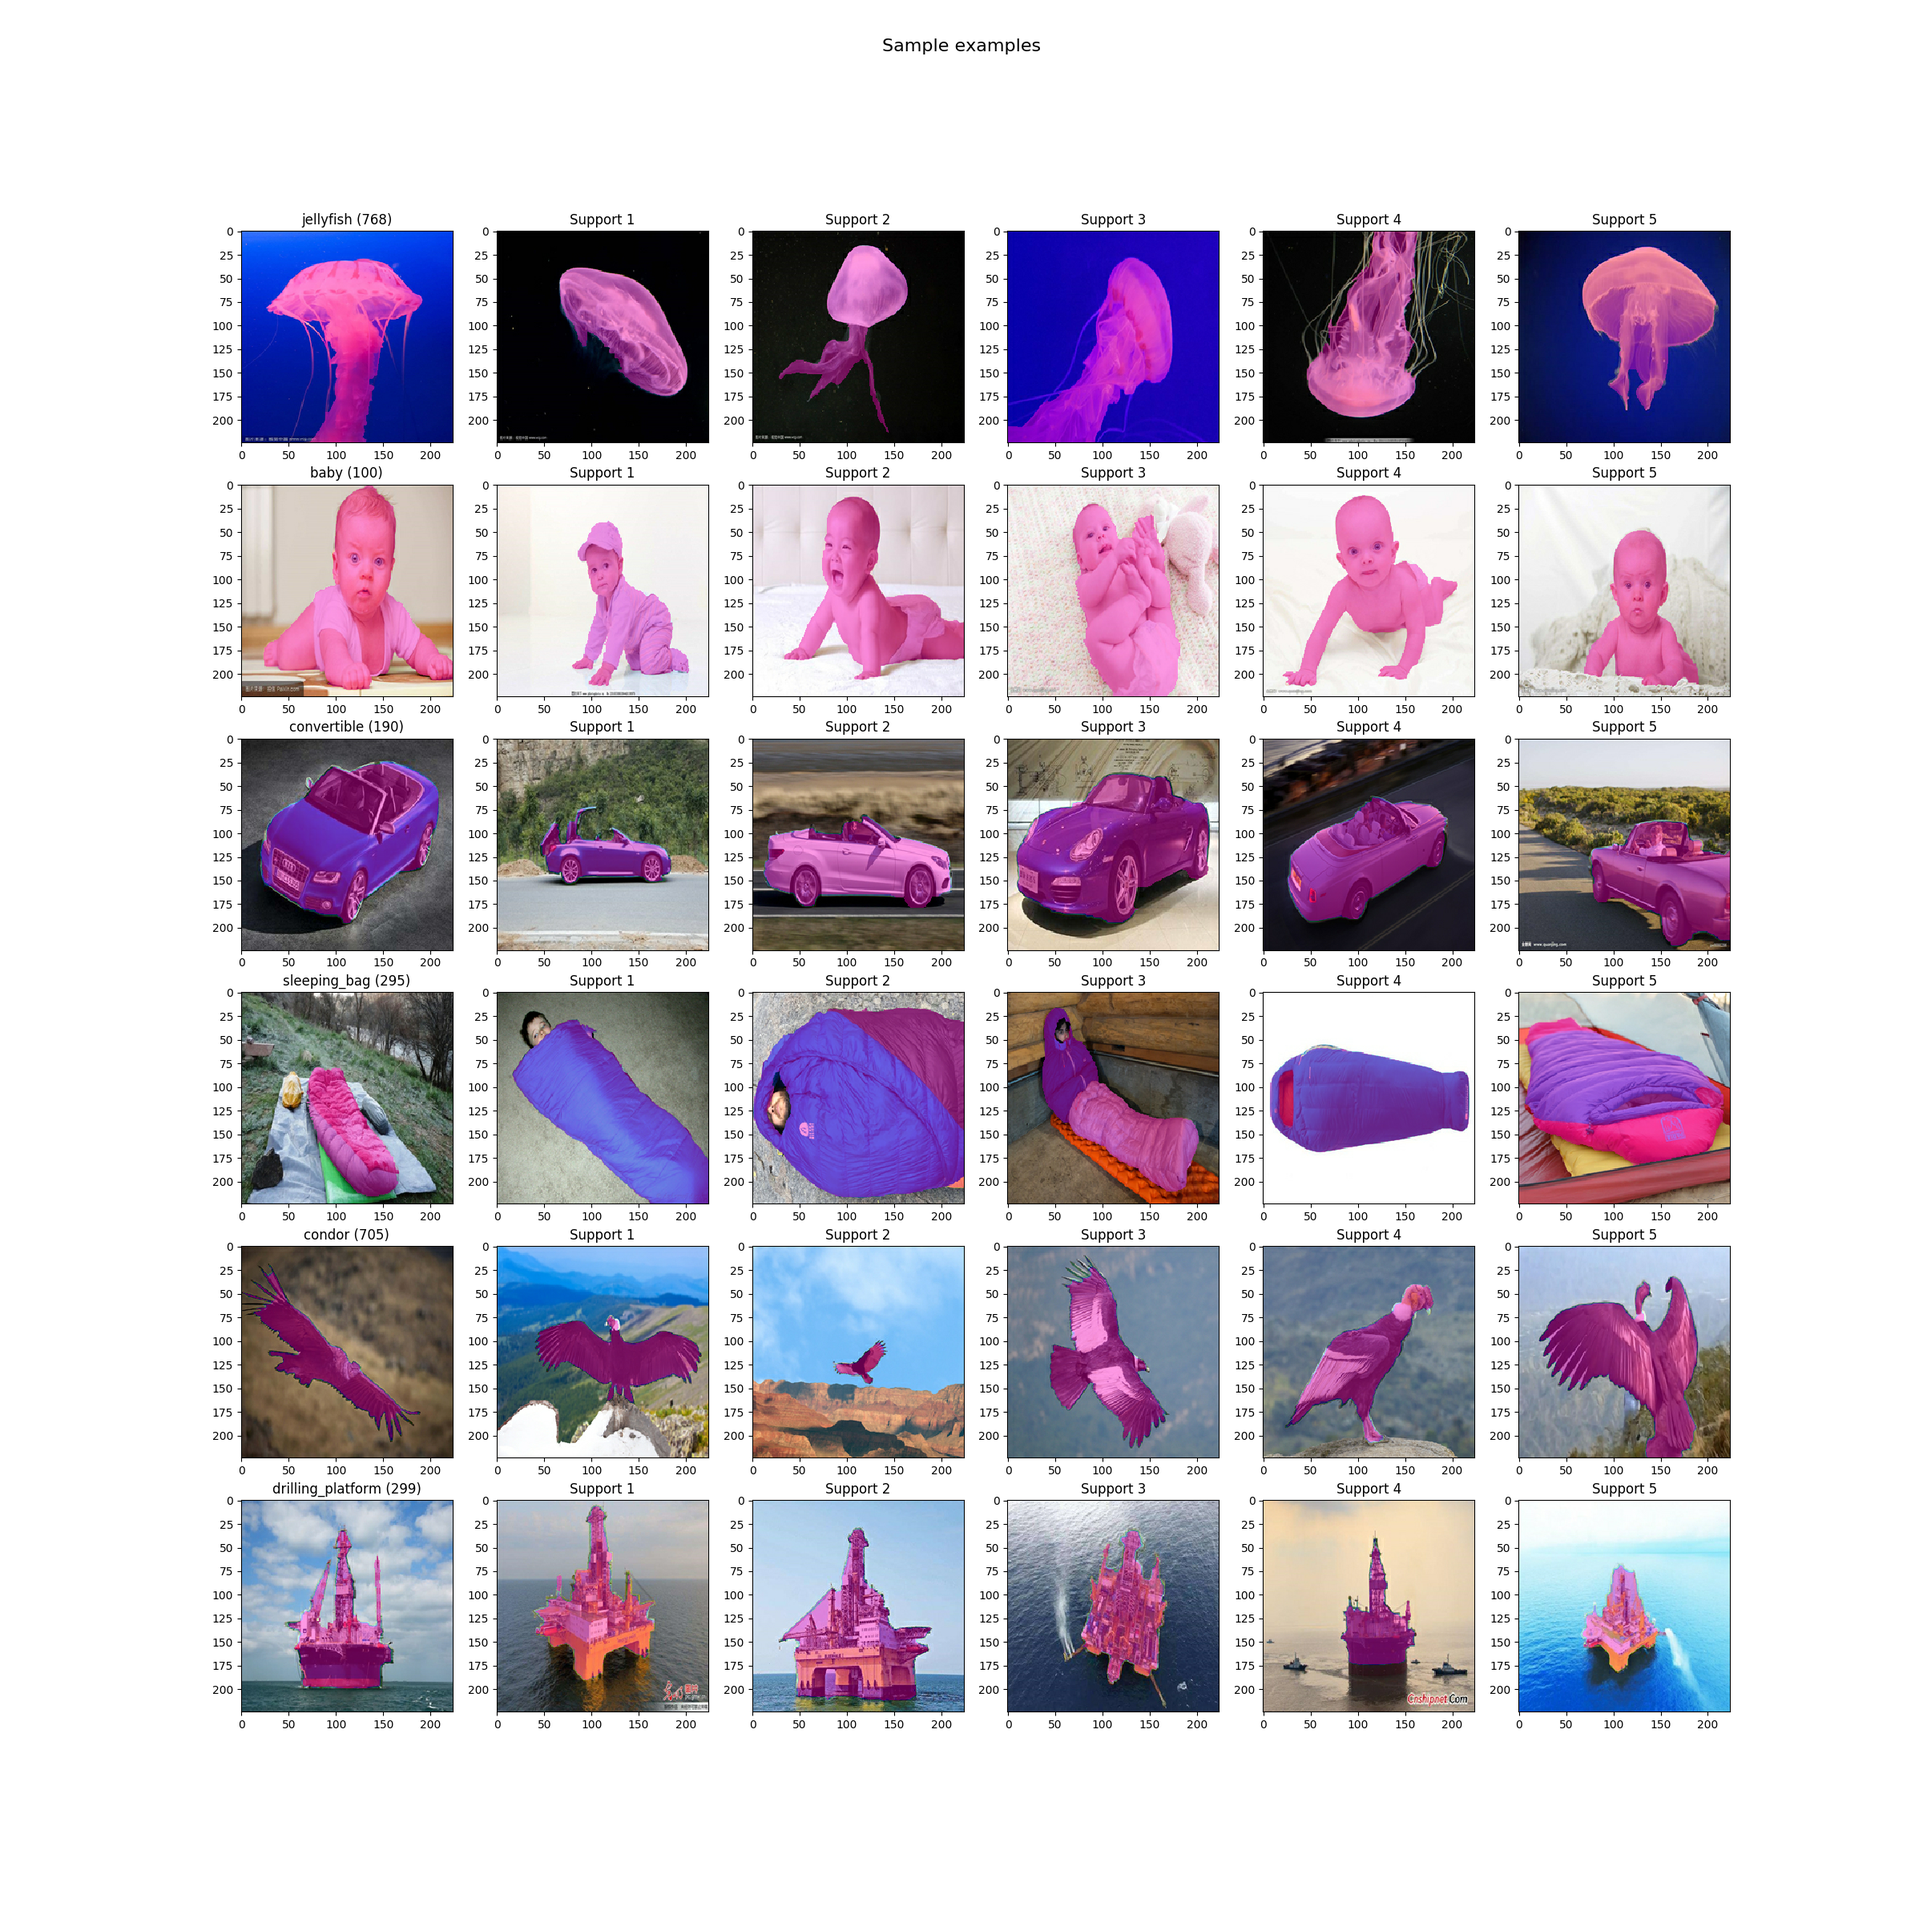
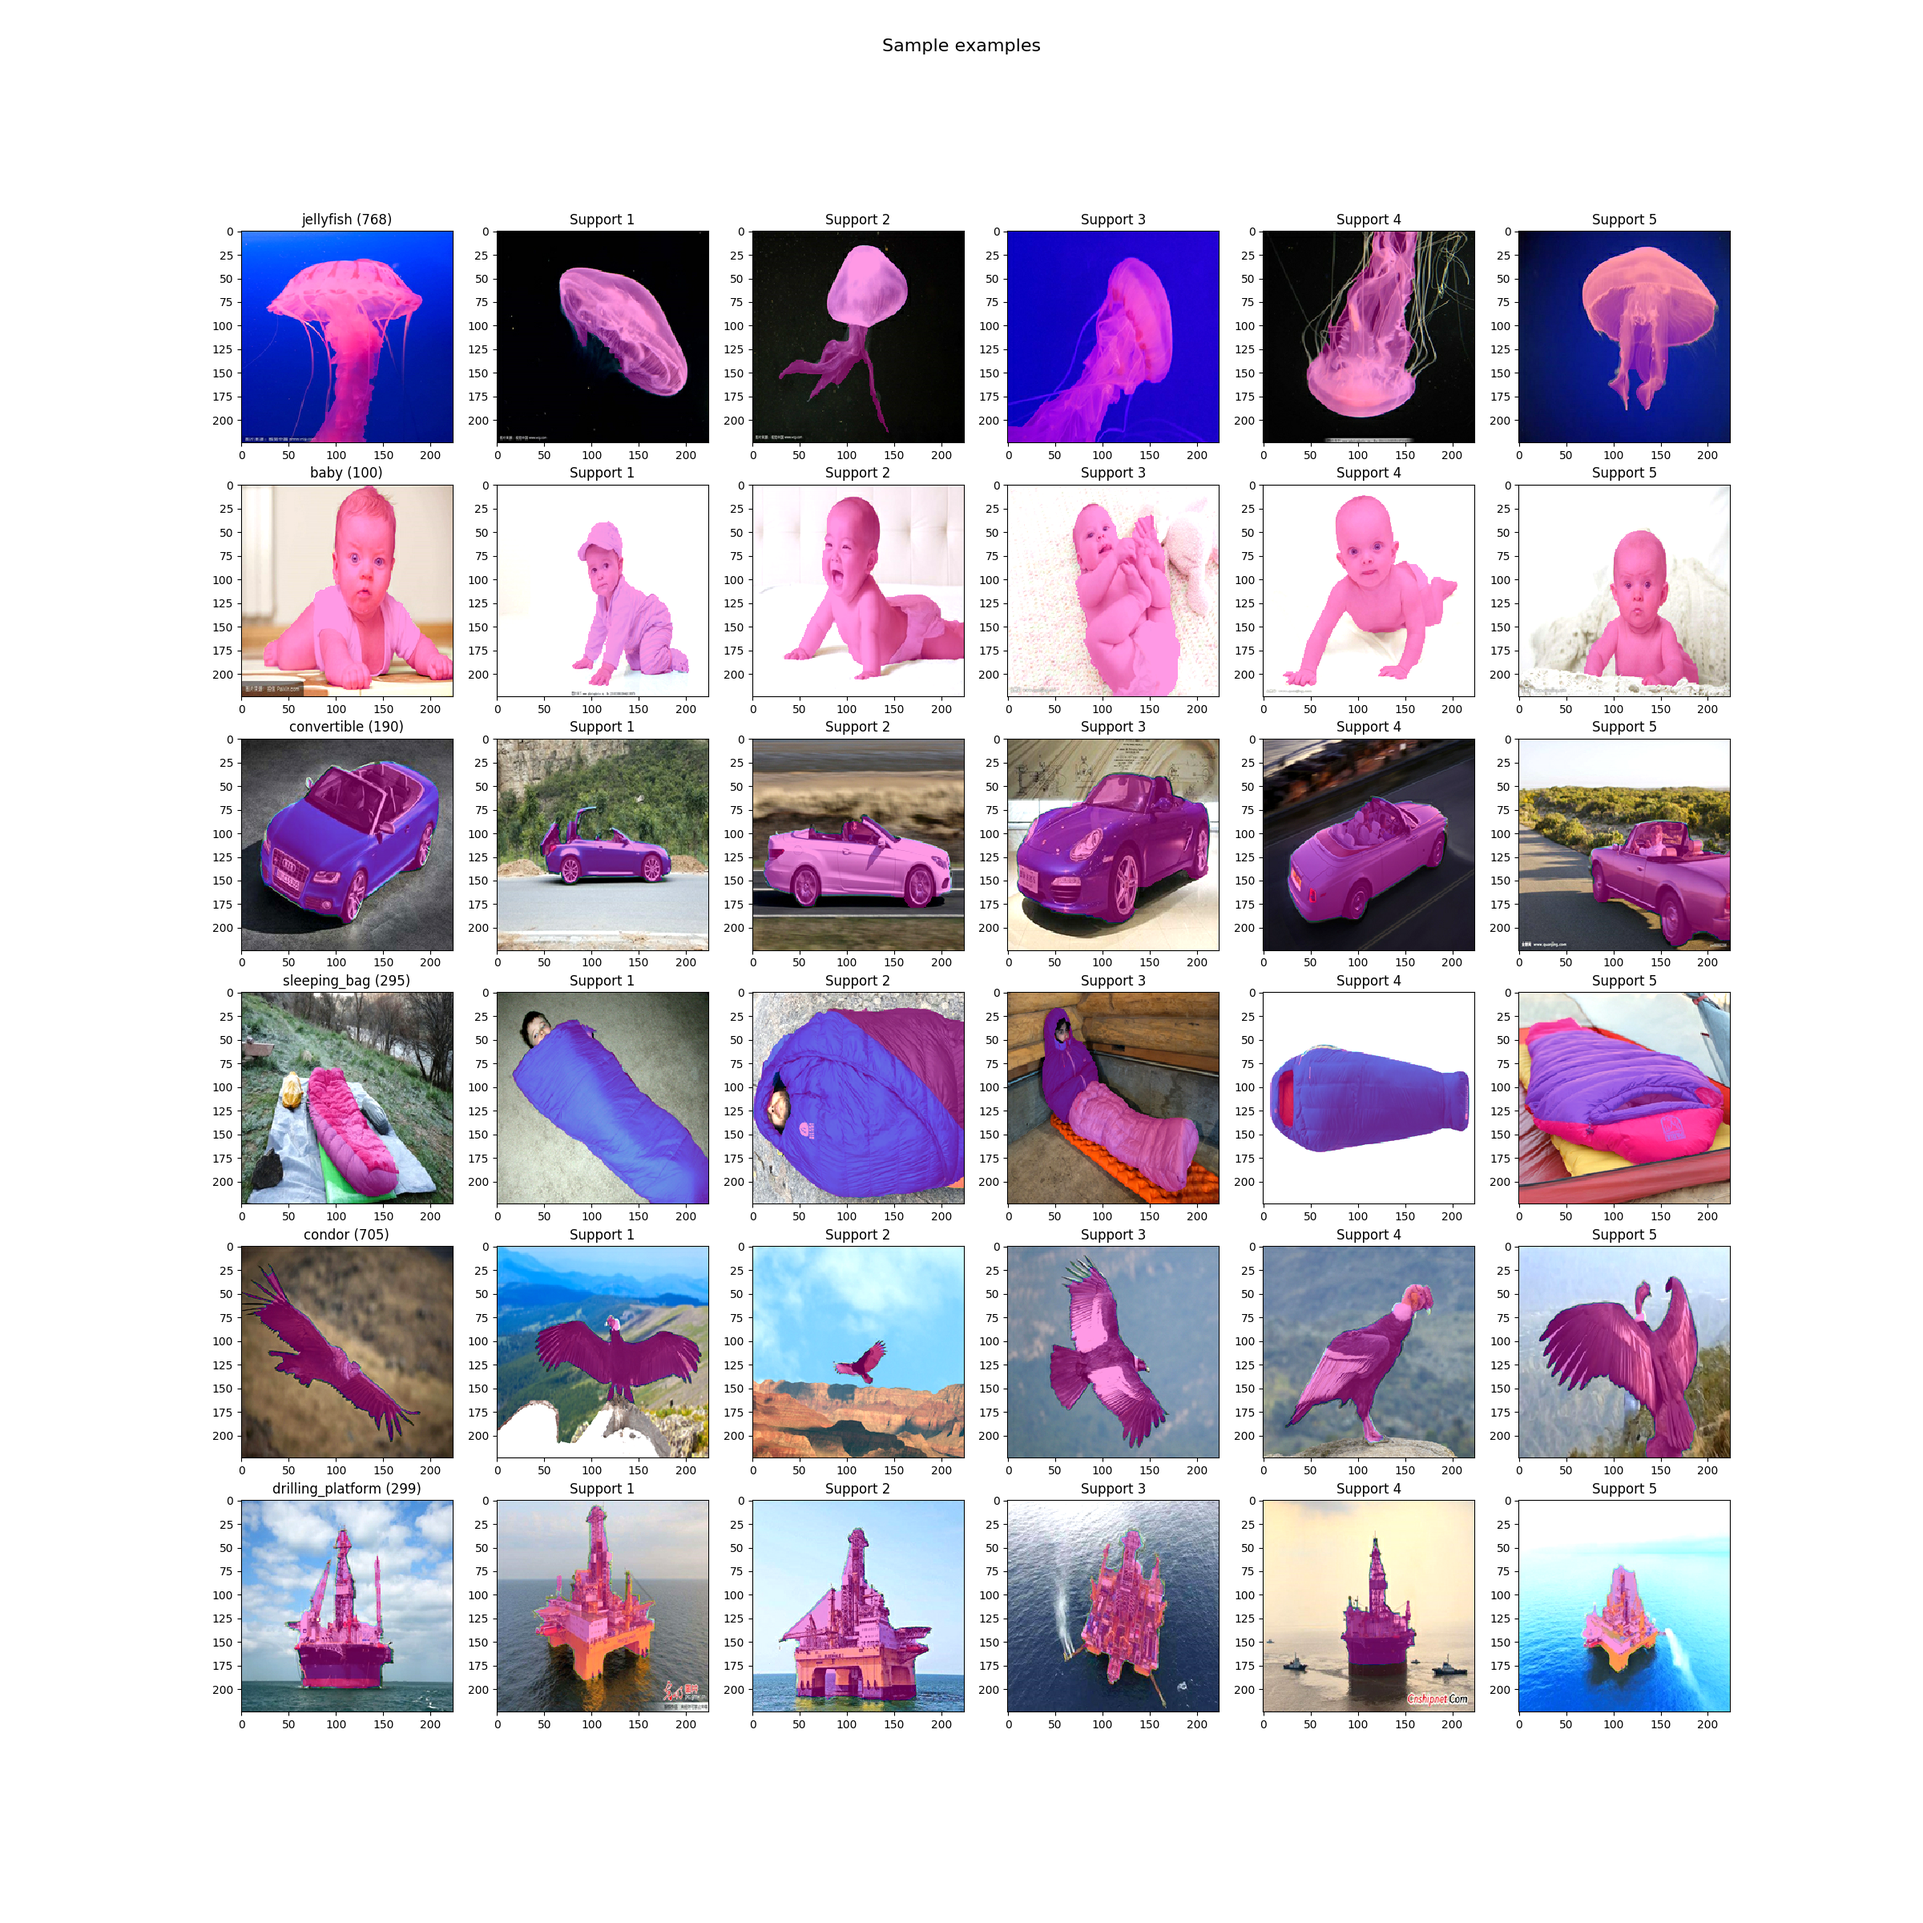
Model training with fit

diff --git a/src/model/model.py b/src/model/model.py
@@ -16,7 +16,9 @@ class Model(tf.keras.Model):
                                                  weights=Model.KERAS_VGG16_WEIGHTS,
                                                  pooling=None)
 
-        self.vgg16_layers = self.vgg16.layers
+        self.layer0 = tf.keras.layers.Conv2D(filters=3, kernel_size=(3,3), padding='same')
+        self.layer1 = tf.keras.layers.Conv2D(filters=64, kernel_size=(3,3), padding='same')
+        self.vgg16_layers = [self.layer0, self.layer1] + self.vgg16.layers[2:]
         self.upsample = tf.keras.layers.UpSampling2D(size=(2, 2), interpolation='bilinear')
         self.up1 = tf.keras.Sequential([
             ConvBlock(512, (3, 3)),
@@ -43,18 +45,21 @@ class Model(tf.keras.Model):
             tf.keras.layers.Conv2D(filters=1, kernel_size=(1, 1), padding='same')
         ])
 
+    # @tf.function
     def call(self, inputs, training=None, mask=None):
         q, s = inputs
         q_features, _ = self.process_set(q)
         s_features, unet_features = self.process_set(s)
-
-
+        #
+        #
         features = tf.concat([q_features, s_features], axis=-1)
-        # mask = self.upsample(features)
-        mask = self.decode(features, unet_features)
+        # # mask = self.upsample(features)
+        __mask = self.decode(features, unet_features)
 
-        return features
+        # return mask
+        return __mask
 
+    # @tf.function
     def decode(self, input, unet_features):
         x = self.up1(input)
         x = self.upsample(x)
@@ -76,29 +81,50 @@ class Model(tf.keras.Model):
         return x
 
     #  TODO: Optimize with optional unet processing
+    # @tf.function
     def process_set(self, batch):
 
-        feature_list = []
-        unet_features_list = []
-        for set_sample in batch:
-            features, unet_features = self.encode(set_sample)
-            unet_features = [tf.reduce_sum(x, axis=0) for x in unet_features]
-            unet_features_list.append(unet_features)
-            features = tf.reduce_sum(features, axis=0)
-            feature_list.append(features)
+        # feature_list = []
+        # unet_features_list = []
+        features, unet_features_list = tf.map_fn(self.t1, batch, dtype=(tf.float32, [tf.float32, tf.float32,
+                                                                                     tf.float32, tf.float32,
+                                                            tf.float32]))
+        # for set_sample in batch:
+        #     self.t1(set_sample)
 
-        concated_features = tf.stack(feature_list, axis=0)
+        concated_features = tf.stack(features, axis=0)
 
-        f = []
-        arr = np.array(unet_features_list)
-        for i in range(len(Model.UNET_SHORTCUTS)):
-            f.append(tf.stack(arr[:, i], axis=0))
+        # f = []
+        # arr = np.array(unet_features_list)
+        # for i in range(len(Model.UNET_SHORTCUTS)):
+        #     f.append(tf.stack(arr[:, i], axis=0))
+
+        # res = [[tf.stack(t, axis=0) for t in l] for l in unet_features_list]
+        # f = lambda x: x[0]
+        ress = []
+        for i in range(5):
+            res = tf.map_fn(lambda x: x[i], unet_features_list, dtype=tf.float32)
+            ress.append(res)
 
 
         # concated_unet_features = [tf.stack(x, axis=0) for x in unet_features_list]
-        return concated_features, f
+        # return concated_features, f
+        return concated_features, ress
+
+    # @tf.function
+    # def t2(self, i):
+    #     return x[i]
+
+    @tf.function
+    def t1(self, set_sample):
+        features, unet_features = self.encode(set_sample)
+        unet_features = [tf.reduce_sum(x, axis=0) for x in unet_features]
+        features = tf.reduce_sum(features, axis=0)
+        return features, unet_features
+        # return features, features
 
     #  TODO: Optimize with optional unet processing
+    @tf.function
     def encode(self, inputs):
         unet_features = []
         x = inputs
@@ -116,7 +142,7 @@ class ConvBlock(tf.keras.layers.Layer):
         super().__init__(**kwargs)
 
         self.conv = tf.keras.layers.Conv2D(filters=filters, kernel_size=kernel_size, padding='same')
-        self.bn = tf.keras.layers.BatchNormalization(momentum=1)
+        self.bn = tf.keras.layers.BatchNormalization(momentum=1.0)
         self.act = tf.keras.activations.relu
 
     def call(self, inputs, **kwargs):

diff --git a/src/dataset/fss.py b/src/dataset/fss.py
@@ -87,8 +87,12 @@ class FssDataset:
 
     @staticmethod
     def create(unrolled_df: pd.DataFrame, support_size: int) -> tf.data.Dataset:
-        tf_q = FssDataset._rgb_mask(unrolled_df.in_file.to_numpy(), unrolled_df.out_file.to_numpy())
+        # tf_q = FssDataset._rgb_mask(unrolled_df.in_file.to_numpy(), unrolled_df.out_file.to_numpy())
+        tf_q = tf.data.Dataset.from_tensor_slices(unrolled_df.in_file.to_numpy()).map(FssDataset.read_rgb)
+        tf_q = tf_q.map(lambda x: tf.concat([x, tf.zeros([224, 224, 1], tf.float32)], axis=-1))
+
         tf_q = tf_q.map(lambda x: tf.expand_dims(x, axis=0))
+        label_mask = tf.data.Dataset.from_tensor_slices(unrolled_df.out_file.to_numpy()).map(FssDataset.read_mask)
 
         s_rgb = [f'support_rgb_{x}' for x in range(support_size)]
         s_mask = [f'support_mask_{x}' for x in range(support_size)]
@@ -100,7 +104,7 @@ class FssDataset:
 
         classname = tf.data.Dataset.from_tensor_slices(unrolled_df['class'].to_numpy())
         class_id = tf.data.Dataset.from_tensor_slices(unrolled_df.class_id.to_numpy())
-        ds = tf.data.Dataset.zip((tf_q, classname, class_id, tf_s))
+        ds = tf.data.Dataset.zip((tf_q, tf_s, label_mask, classname, class_id))
 
         return ds
 
@@ -108,14 +112,14 @@ class FssDataset:
     def read_rgb(path: tf.Tensor) -> tf.Tensor:
         file = tf.io.read_file(path)
         image = tf.io.decode_jpeg(file, channels=3)
-        image = tf.image.resize(image, (224, 224))
+        image = tf.image.resize(image, (224, 224))/225
         return image
 
     @staticmethod
     def read_mask(path: tf.Tensor) -> tf.Tensor:
         file = tf.io.read_file(path)
         image = tf.io.decode_png(file, channels=1)
-        image = tf.image.resize(image, (224, 224))
+        image = tf.image.resize(image, (224, 224))/255
         return image
 
     @staticmethod

diff --git a/visualize_dataset.py b/visualize_dataset.py
@@ -1,18 +1,22 @@
 import matplotlib.pyplot as plt
 
+import tensorflow as tf
+
 from src.dataset.fss import FssDataset
 from src.utils.memory import memory_limit
+from src.visualization.maks import register_colormap
 
 
 def show_sample(subplot, sample, title):
     img = sample[:, :, :3]
     mask = sample[:, :, 3]
-    subplot.imshow(img.numpy() / 255)
-    subplot.imshow(mask.numpy() / 255, cmap='rainbow_alpha', alpha=0.4)
+    subplot.imshow(img.numpy())
+    subplot.imshow(mask.numpy(), cmap='rainbow_alpha', alpha=0.4)
     subplot.title.set_text(title)
 
 
 def main():
+    register_colormap()
     memory_limit(0.5)
 
     n_cols = 6
@@ -23,9 +27,10 @@ def main():
     fig, ax = plt.subplots(ncols=n_cols, nrows=n_rows, figsize=(n_cols * 4, n_rows * 4))
     fig.suptitle('Sample examples', fontsize=16)
 
-    for idx, (query, classname, class_id, support) in enumerate(test.take(n_cols)):
+    for idx, (query, support, mask, classname, class_id) in enumerate(test.take(n_cols)):
         name = f'{classname.numpy().decode()} ({class_id})'
-        show_sample(ax[idx, 0], query[0, :, :, :], name)
+        sample_masked = tf.concat([query[0, :, :, :3], mask], axis=-1)
+        show_sample(ax[idx, 0], sample_masked, name)
         for i in range(1, n_cols):
             show_sample(ax[idx, i], support[i-1, :, :, :], f'Support {i}')
 

diff --git a/train.py b/train.py
@@ -1,10 +1,37 @@
 import numpy as np
+import tensorflow as tf
 
+from src.dataset.fss import FssDataset
 from src.model.model import Model
 
 
-q = np.zeros([4, 1, 224, 224, 3], np.float32)
-s = np.zeros([4, 5, 224, 224, 3], np.float32)
+q = np.zeros([4, 1, 224, 224, 4], np.float32)
+s = np.zeros([4, 5, 224, 224, 4], np.float32)
+# tf.config.experimental_run_functions_eagerly(True)
+
 model = Model()
 
-model((q, s))
+res = model((q, s))
+
+# dataset = FssDataset('./fewshots.csv')
+# test = dataset.test
+# test = test.map(lambda q, s, m, n, i: ((q, s), m))
+# test = test.batch(1).take(1)
+
+# i, o = next(iter(test))
+# model(i)
+
+model.compile(loss=tf.keras.losses.MSE, optimizer=tf.keras.optimizers.Adam())
+tf_q = tf.data.Dataset.from_tensor_slices([q])
+tf_s = tf.data.Dataset.from_tensor_slices([s])
+tf_mask = tf.data.Dataset.from_tensor_slices([np.zeros([4, 224, 224, 1], np.float32)])
+tf = tf.data.Dataset.zip((tf_q, tf_s, tf_mask))
+tf = tf.map(lambda q, s, m: ((q, s), m))
+# d = tf.data.Dataset.zip((tf, tf_mask))
+# res = next(iter(d))
+#
+print('************* FIIIIIIIIIIIIIIIT ****************')
+res = model.fit(tf, epochs=10)
+# print(res)
+
+pass
